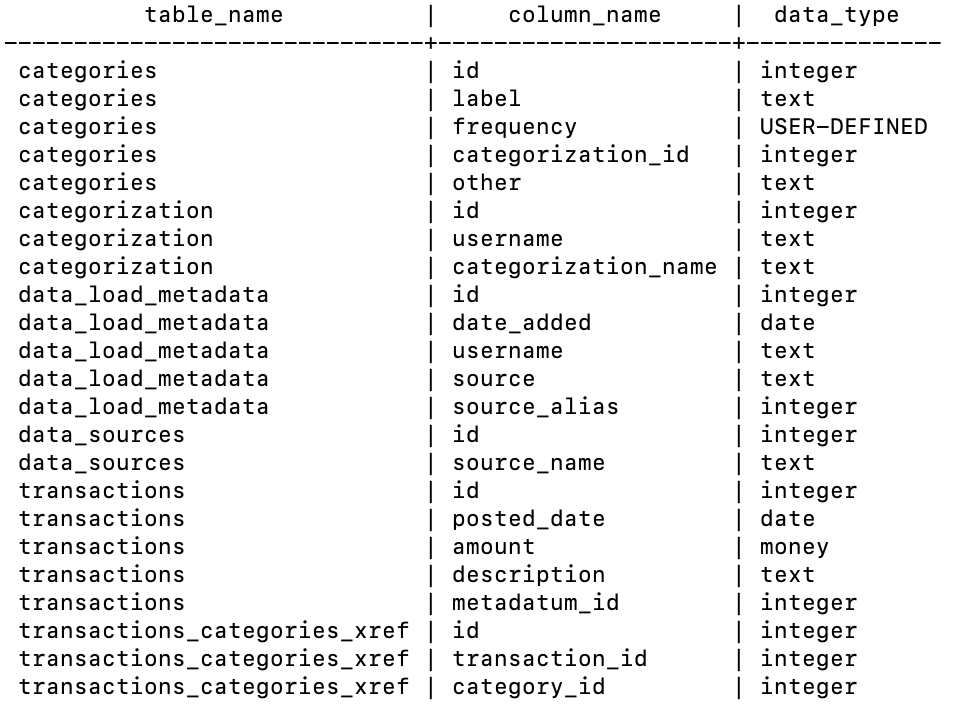
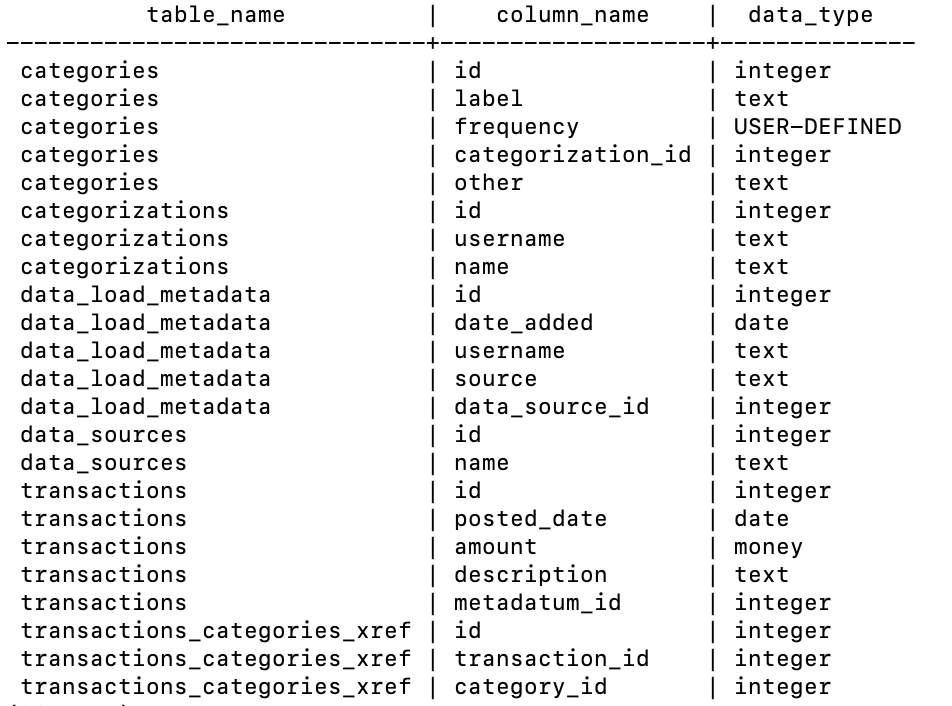
Started test file, updated schema diagrams

Changed region(s): [[0.0, 0.0, 0.9748, 1.0], [0.0609, 0.0, 0.3046, 0.0625], [0.3351, 0.0312, 0.396, 0.0625]]

diff --git a/tests/test_db.py b/tests/test_db.py
@@ -1,0 +1,25 @@
+#!/usr/bin/env python
+# -*- coding: utf-8 -*-
+#
+# test_db.py
+#
+# Copyright (c) 2025 Stephanie Johnson
+
+import psycopg2, unittest
+
+class TestDBSetup(unittest.TestCase):
+    @classmethod
+    def setupClass(self):
+        # make a test db
+        # TODO later use mocking instead of a real db
+
+    @classmethod
+    def tearDownClass(self):
+        # delete db
+
+    def test_schema_match(self):
+        # Check that the schema of the real db matches this test db 
+        # we just made from the schema file
+
+    def test_add_transactions(self):
+        # Will test add_transactions method TODO
